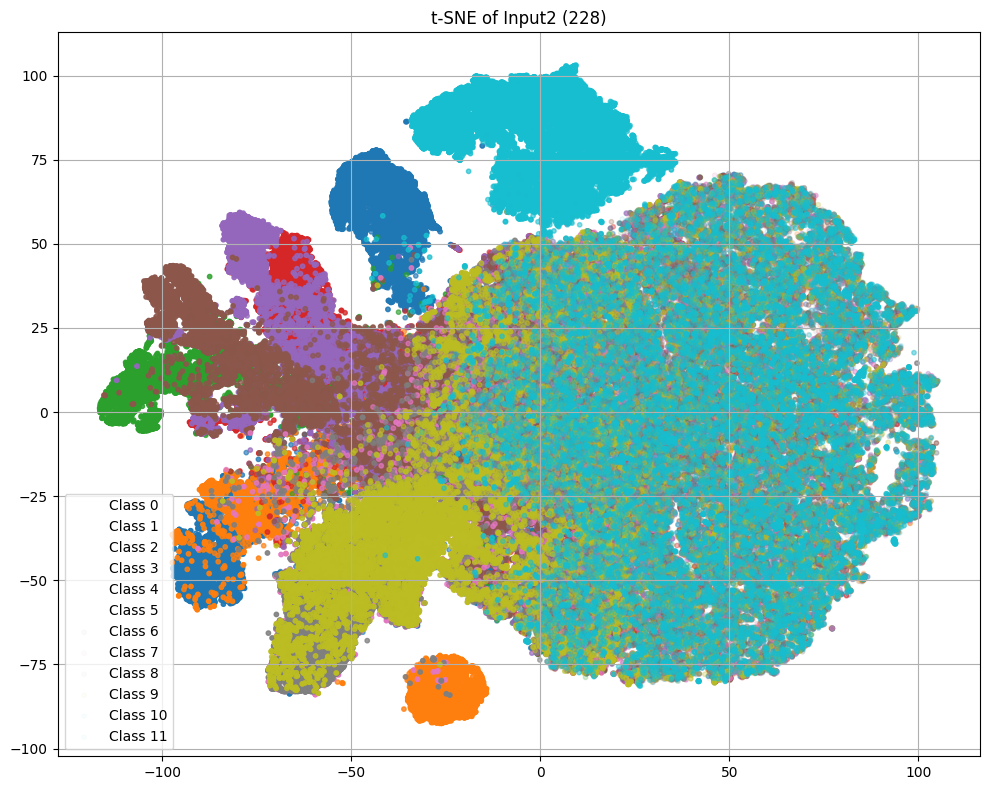
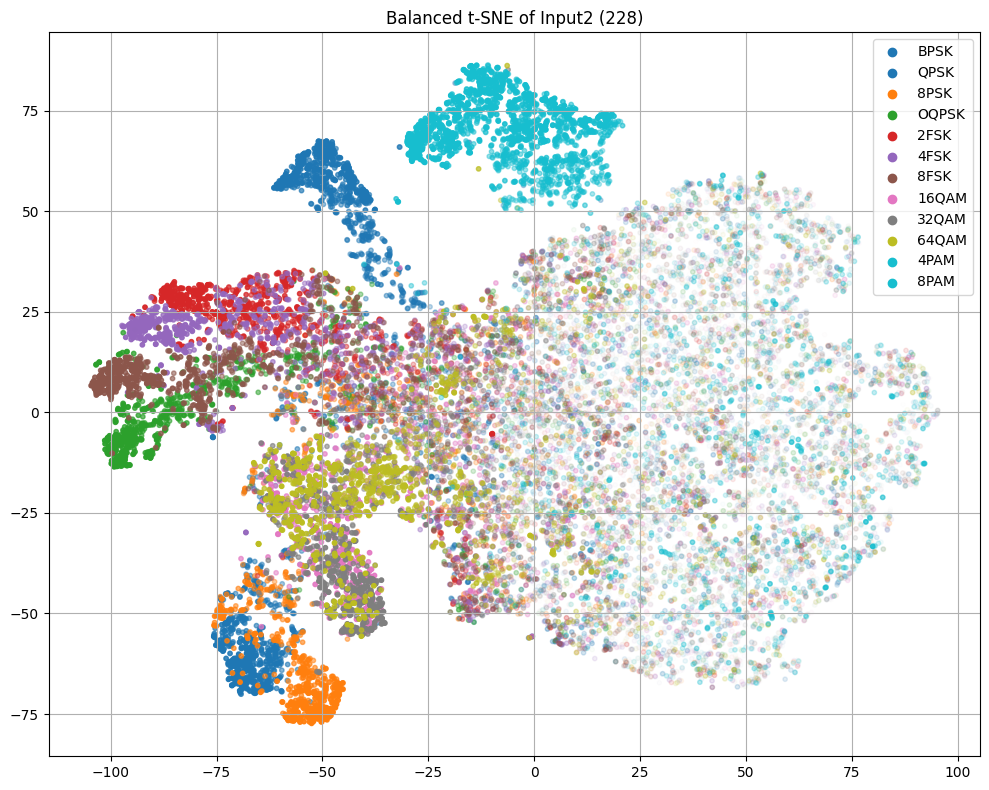
plots

diff --git a/utils.py b/utils.py
@@ -214,28 +214,59 @@ def accuracy_comparison(path_experiment_1, path_experiment_2):
     plt.show()
     
     
-def plot_tsne_with_snr(input1: torch.Tensor, input2: torch.Tensor, labels: torch.Tensor):
-    """
-    Generates two t-SNE plots from input1 and input2 with color shading based on SNR.
     
+def plot_tsne_with_snr_balanced(input1: torch.Tensor, input2: torch.Tensor, labels: torch.Tensor, 
+                                 snr_step=6000, samples_per_bin=100):
+    """
+    Generates balanced t-SNE plots from a subsample of input1 and input2, shaded by SNR.
+
     Parameters:
     - input1: Tensor of shape (N, 1, 512, 2)
     - input2: Tensor of shape (N, 228)
-    - labels: Tensor of shape (N, 12), assumed to be one-hot encoded
+    - labels: Tensor of shape (N, 12), one-hot encoded
+    - snr_step: Number of samples per SNR step (default 6000)
+    - samples_per_bin: Number of samples to draw per (class, SNR) bin
     """
-    assert input1.shape[0] == input2.shape[0] == labels.shape[0], "All inputs must have the same number of samples."
+    class_names = ['BPSK', 'QPSK', '8PSK', 'OQPSK', '2FSK', '4FSK',
+                   '8FSK', '16QAM', '32QAM', '64QAM', '4PAM', '8PAM']
+
     N = input1.shape[0]
-    
-    # Flatten input1 to shape (N, 1024)
+    assert input1.shape[0] == input2.shape[0] == labels.shape[0], "Input shapes mismatch"
+
+    # Prepare data
+    labels_np = torch.argmax(labels, dim=1).cpu().numpy()
     input1_flat = input1.view(N, -1).cpu().numpy()
     input2_flat = input2.cpu().numpy()
-    labels_np = torch.argmax(labels, dim=1).cpu().numpy()
 
-    # Estimate SNR level for shading (every 6000 samples means we scale over chunks)
-    snr_levels = (np.arange(N) // 6000).astype(np.float32)
+    # Compute SNR bins
+    total_snr_bins = N // snr_step
+    snr_levels = (np.arange(N) // snr_step)
     snr_norm = (snr_levels - snr_levels.min()) / (snr_levels.max() - snr_levels.min() + 1e-8)
 
-    # Colors for each class
+    # Balanced sampling: collect indices for each (class, snr_bin) pair
+    selected_indices = []
+    for snr_bin in range(total_snr_bins):
+        for cls in range(12):
+            bin_mask = (snr_levels == snr_bin) & (labels_np == cls)
+            bin_indices = np.where(bin_mask)[0]
+            if len(bin_indices) >= samples_per_bin:
+                chosen = np.random.choice(bin_indices, samples_per_bin, replace=False)
+            else:
+                chosen = np.random.choice(bin_indices, min(len(bin_indices), samples_per_bin), replace=True)
+            selected_indices.extend(chosen)
+    
+    # Subset data
+    selected_indices = np.array(selected_indices)
+    x1 = input1_flat[selected_indices]
+    x2 = input2_flat[selected_indices]
+    y = labels_np[selected_indices]
+    
+    # Enhance SNR-based alpha shading
+    snr_raw = snr_norm[selected_indices]
+    alpha_power = 2  # Emphasize opacity contrast
+    snr_selected = snr_raw ** alpha_power
+
+    # Define colors
     num_classes = labels.shape[1]
     base_colors = plt.cm.get_cmap('tab10', num_classes)
 
@@ -245,20 +276,24 @@ def plot_tsne_with_snr(input1: torch.Tensor, input2: torch.Tensor, labels: torch
 
         plt.figure(figsize=(10, 8))
         for class_idx in range(num_classes):
-            indices = labels_np == class_idx
-            rgba = np.array([to_rgba(base_colors(class_idx), alpha) for alpha in snr_norm[indices]])
+            indices = y == class_idx
+            rgba = np.array([to_rgba(base_colors(class_idx), alpha) for alpha in snr_selected[indices]])
             plt.scatter(tsne_result[indices, 0], tsne_result[indices, 1],
-                        label=f'Class {class_idx}', c=rgba, s=10)
-        
+                        c=rgba, s=10)
+
+            # Dummy scatter for legend with full opacity
+            plt.scatter([], [], color=base_colors(class_idx), label=class_names[class_idx])
+
         plt.title(title)
         plt.legend()
         plt.grid(True)
         plt.tight_layout()
 
-    compute_tsne_and_plot(input1_flat, "t-SNE of Input1 (1x512x2)")
-    compute_tsne_and_plot(input2_flat, "t-SNE of Input2 (228)")
-
+    compute_tsne_and_plot(x1, "Balanced t-SNE of Input1 (1x512x2)")
+    compute_tsne_and_plot(x2, "Balanced t-SNE of Input2 (228)")
     plt.show()
+
+
     
 
 
@@ -310,4 +345,21 @@ def plot_snr_grouped_confusion_matrices(y_true, y_pred):
 
     plt.tight_layout()
     fig.colorbar(im, ax=axs, orientation='vertical', fraction=0.015, pad=0.02)
+    plt.show()
+
+
+def plot_attention_maps(data_features, data_raw):
+    
+    model_standard = StandardModel(228,12)
+    attention_standard = model_standard(data_features,data_raw,return_attention=True)
+    attention_standard = np.array(attention_standard.to("cpu").detach())
+    plt.imshow(attention_standard)
+    plt.show()
+    
+    model_self = SelfAttnModel(228,12)
+    attention_self = model_self(data_features,data_raw,return_attention=True)
+    attention_self = np.array(attention_self.to("cpu").detach())
+    plt.figure(figsize=(6, 6))
+    plt.imshow(attention_self)
+    plt.axis('off')
     plt.show()

diff --git a/plots.py b/plots.py
@@ -1,6 +1,6 @@
 #%%
 
-from utils import plot_tsne_with_snr, return_data_train, return_data_test, plot_snr_grouped_confusion_matrices
+from utils import plot_tsne_with_snr_balanced, return_data_train, return_data_test, plot_snr_grouped_confusion_matrices, plot_attention_maps
 from models import SelfAttnModel
 import torch
 from dataset import RadioDataset
@@ -12,30 +12,55 @@ device = "cuda" if torch.cuda.is_available() else "cpu"
 #%%
 
 #create TSNE plots
-#data_raw, data_feature, label_train_oh = return_data_train()
-#plot_tsne_with_snr(data_raw[-6000:], data_feature[-6000:], label_train_oh[-6000:])
+data_raw, data_feature, label_train_oh = return_data_train()
+plot_tsne_with_snr_balanced(data_raw, data_feature, label_train_oh)
 
 #%%
 
-#create confusion matrices
+import torch
+from torch.utils.data import DataLoader
+from tqdm import tqdm
+import numpy as np
+
+# Load model
 experiment_name = 'selfAttn-model_epoch-100_lr-0.001_batch-64_20250511_220053'
 model = SelfAttnModel(228, 12).to(device)    
-model.load_state_dict(torch.load(f"models/{experiment_name}/trained_model.pth"))
-
+model.load_state_dict(torch.load(f"models/{experiment_name}/trained_model.pth", map_location=device))
 model.eval()
 
+# Load data
 raw, feature, y_true = return_data_test()
-
 test_set = RadioDataset(feature, raw, y_true)
 batch_size = 64
 loader = DataLoader(test_set, batch_size=batch_size)
 
-preds = []
-for batch_feat, batch_raw, batch_y_true in tqdm(loader):
+#%%
 
-    y_hat = model(batch_feat.to(device),batch_raw.to(device))
-    preds.append(y_hat.to("cpu"))
+# Inference
+all_preds = np.zeros(len(test_set), dtype=np.int64)
+all_true = np.zeros(len(test_set), dtype=np.int64)
 
-#plot_snr_grouped_confusion_matrices(y_true,y_hat)
+with torch.no_grad():
+    idx = 0
+    for batch_feat, batch_raw, batch_y in tqdm(loader):
+        batch_feat = batch_feat.to(device)
+        batch_raw = batch_raw.to(device)
+        
+        y_hat = model(batch_feat, batch_raw)
+        y_pred = torch.argmax(y_hat, dim=1).cpu().numpy()
+        
+        y_true_indices = torch.argmax(batch_y, dim=1).cpu().numpy()
+        
+        batch_size_actual = y_pred.shape[0]
+        all_preds[idx:idx+batch_size_actual] = y_pred
+        all_true[idx:idx+batch_size_actual] = y_true_indices
+        idx += batch_size_actual
+
+
+
+#plot_snr_grouped_confusion_matrices(all_preds,all_true)
     
+# %%
+
+plot_attention_maps(feature[-128:],raw[-128:])
 # %%

diff --git a/models.py b/models.py
@@ -13,7 +13,7 @@ class StandardModel(nn.Module):
         self.fusion = Fusion(128)
         self.out = nn.Linear(128, n_output_classes)
 
-    def forward(self, x1, x2):
+    def forward(self, x1, x2, return_attention=False):
         # x1: (B, 1, F), x2: (B, 1, 128, 2)
         hand_out = self.mlp(x1)  # (B, 1, 64)
         iq_out = self.cnn(x2)    # (B, 1, 64)
@@ -21,6 +21,10 @@ class StandardModel(nn.Module):
         fusion_out = self.fusion(cat)               # (B, 1, 128)
         attention = fusion_out * cat                # (B, 1, 128)
         final_out = self.out(attention).squeeze(1)  # (B, n_classes)
+        
+        if return_attention == True:
+            return fusion_out
+        
         return final_out
     
 
@@ -33,11 +37,11 @@ class SelfAttnModel(nn.Module):
         self.fusion = FusionSelfAttn(num_classes=n_output_classes)
         
 
-    def forward(self, x1, x2):
+    def forward(self, x1, x2, return_attention=False):
         # x1: (B, 1, F), x2: (B, 1, 128, 2)
         hand_out = self.mlp(x1)  # (B, 1, 64)
         iq_out = self.cnn(x2)    # (B, 1, 64)
         cat = torch.cat((hand_out, iq_out), dim=1)  # (B, 1, 128)
-        fusion_out = self.fusion(cat)               # (B, 1, 128)
+        fusion_out = self.fusion(cat, return_attention=return_attention)               # (B, 1, 128)
         
         return fusion_out

diff --git a/fusion.py b/fusion.py
@@ -58,7 +58,7 @@ class FusionSelfAttn(nn.Module):
         pe[:, 1::2] = torch.cos(position * div_term)
         return pe.unsqueeze(0)  # Shape: (1, seq_len, d_model)
 
-    def forward(self, x):
+    def forward(self, x, return_attention=False):
         """
         x: Tensor of shape (N, 128)
         """
@@ -87,4 +87,8 @@ class FusionSelfAttn(nn.Module):
 
         # Final classification
         logits = self.output_proj(pooled)  # (N, num_classes)
+        
+        if return_attention == True:
+            return attn_weights
+        
         return logits
